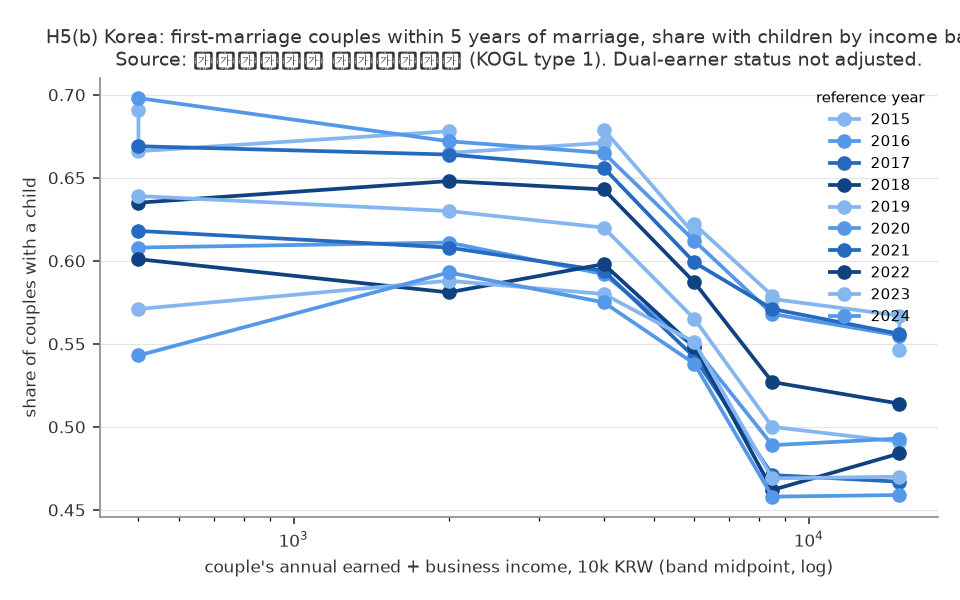
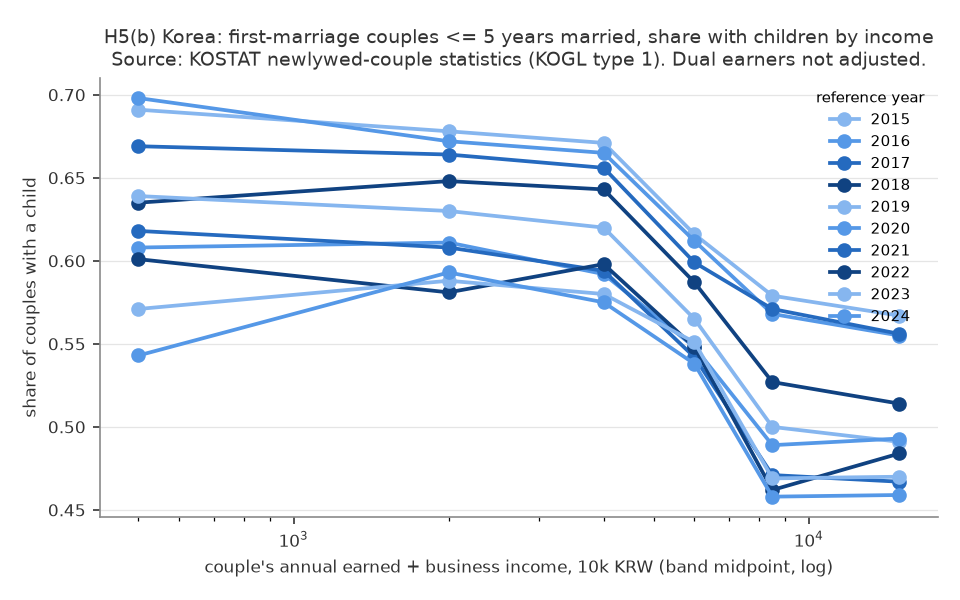
docs(growth-fertility): H5 report (Europe/Korea gradients, family policy vs TFR, Nordic decline anatomy)
Pre-registered H5 analysis and report; methodology review APPROVED after
rewriting stale (a1) numbers, reporting the full 2010-2019 cross-section,
removing effect-size and elimination claims, and aligning verdict wording.

diff --git a/themes/growth-fertility/src/theme_growth_fertility/analysis/a20261006_h5_europe_korea_policy.py b/themes/growth-fertility/src/theme_growth_fertility/analysis/a20261006_h5_europe_korea_policy.py
@@ -183,10 +183,18 @@ def krw_midpoint(
 
 
 def korea_slope(
-    kr: pl.DataFrame, ref_year: int, *, metric: str = "with_children_share"
+    kr: pl.DataFrame,
+    ref_year: int,
+    *,
+    metric: str = "with_children_share",
+    income_concept: str = "earned_business",
 ) -> tuple[Coef, int]:
     """Weighted (couples) slope of *metric* on ln income midpoint across the 6 bands of one year."""
-    y = kr.filter((pl.col("ref_year") == ref_year) & (pl.col("income_class") != "total"))
+    y = kr.filter(
+        (pl.col("ref_year") == ref_year)
+        & (pl.col("income_class") != "total")
+        & (pl.col("income_concept") == income_concept)
+    )
     val = y.filter(pl.col("metric") == metric).select(
         "income_class", "income_lower_10k_krw", "income_upper_10k_krw", "value"
     )
@@ -559,6 +567,7 @@ def fig_korea(kr: pl.DataFrame, path: Path) -> None:
             (pl.col("ref_year") == yr)
             & (pl.col("metric") == "with_children_share")
             & (pl.col("income_class") != "total")
+            & (pl.col("income_concept") == "earned_business")
         ).sort("income_lower_10k_krw")
         mids = [
             krw_midpoint(lo, hi)
@@ -578,9 +587,8 @@ def fig_korea(kr: pl.DataFrame, path: Path) -> None:
     )
     ax.set_ylabel("share of couples with a child", fontsize=8, color=INK)
     ax.set_title(
-        "H5(b) Korea: first-marriage couples within 5 years of marriage, "
-        "share with children by income band\n"
-        "Source: 국가데이터처 신혼부부통계 (KOGL type 1). Dual-earner status not adjusted.",
+        "H5(b) Korea: first-marriage couples <= 5 years married, share with children by income\n"
+        "Source: KOSTAT newlywed-couple statistics (KOGL type 1). Dual earners not adjusted.",
         fontsize=9,
         color=INK,
     )
@@ -764,11 +772,13 @@ def run(data_dir: Path, fig_dir: Path) -> None:
             f"\n== (b) Korea newlywed mart: rows={kr.height} "
             f"years={sorted(kr['ref_year'].unique().to_list())} =="
         )
-        for yr in sorted(kr["ref_year"].unique().to_list()):
-            concept = kr.filter(pl.col("ref_year") == yr)["income_concept"][0]
+        blocks = (
+            kr.select("ref_year", "income_concept").unique().sort(["ref_year", "income_concept"])
+        )
+        for yr, concept in blocks.iter_rows():
             try:
-                c, n = korea_slope(kr, yr)
-                cm, _ = korea_slope(kr, yr, metric="mean_children")
+                c, n = korea_slope(kr, yr, income_concept=concept)
+                cm, _ = korea_slope(kr, yr, metric="mean_children", income_concept=concept)
                 print(
                     f"  {yr} ({concept}): with_children_share ~ ln income: {c.fmt()} "
                     f"(bands={n}); mean_children: {cm.fmt()}"

diff --git a/themes/growth-fertility/reports/2026-10-06-h5-europe-korea-policy.md b/themes/growth-fertility/reports/2026-10-06-h5-europe-korea-policy.md
@@ -2,9 +2,9 @@
 
 ## 要約（5 行）
 - **問い**: 「国の中では所得が高いほど結婚・出産」は日本特有か（韓国・欧州で確かめる）。フィンランドなど北欧は手厚い家族政策にもかかわらず 2010 年以降 TFR が急落した。根本的な因果構造は何か。**先に断る**: 公開集計データでは因果構造は識別できない。文献が示す説明のうち集計データで反証できる命題を事前に固定し、整合・不整合を記述した。
-- **(a) 政策 × TFR: 整合的（政策の関連は小さく、北欧の低下を説明しない）。** OECD 38 か国・1980–2021 の二元固定効果で、家族関連公的支出 1% GDP あたり TFR **+0.02 [−0.10, +0.15]**（現金・現物に分けても、3 年ラグでも同様）。この係数と各国の支出変化を掛けた「政策で説明できる ΔTFR」は、2010→2021 の北欧 4 か国の低下（−0.15〜−0.41）の **0〜12%**。2010 年の支出水準が高い国ほど TFR が持ちこたえたという横断の関係も無い（傾き −0.04 [−0.11, +0.04]）。
-- **(b) 欧州の国内階層勾配（2021 センサス、学歴軸）: 男性は 31 か国中 23 で正、負は 0。** 事前基準（25 か国以上）には届かず「不支持」だが、負の国は一つも無く、ゼロの 8 か国は南欧・独語圏・ルーマニア。女性は北欧 5 か国すべてで正、南欧 4 か国すべてで負。「男性は所得・学歴が高いほど結婚」は日本（H3b、所得軸）だけでなく欧州の大半で成り立ち、「女性の勾配は北欧で正・南欧で負」という文献の整理とも一致する。韓国（新婚夫婦の夫婦所得別有子率）は本文参照。
-- **(c1) 北欧の低下の中身: 第 1 子が最大の寄与だが過半ではない。** 出生順位別 TFR の 2010→2024 の変化は、フィンランド −0.62 のうち第 1 子 −0.23（37%）、第 2 子 −0.20、第 3 子以上 −0.19。スウェーデン・ノルウェー 45%、アイスランド 33%。事前基準（≥ 50%）は不支持（デンマークは 2010 年欠損で判定不能）。**全出生順位が一様に落ちている**のが北欧の特徴で、南欧・ポーランドでは第 1 子の寄与が 55–65% と大きい。
+- **(a) 政策 × TFR: 事前基準では整合的だが、検定力は弱い。** OECD 38 か国・1980–2021 の二元固定効果で、家族関連公的支出 1% GDP あたり TFR **+0.02 [−0.10, +0.15]**（現金・現物に分けても、3 年ラグでも点推定は +0.02〜+0.06 で CI は 0 を含む）。この係数と各国の支出変化を掛けた「政策で説明できる ΔTFR」は、2010→2021 の北欧 4 か国の低下（−0.15〜−0.41）の **0〜12%**。ただし北欧は支出をほとんど変えていない（FIN −0.01 pp）ので、この分解は係数の大きさによらず 0 に近くなり、「政策が効かない」ことの検定にはなっていない。2010 年の支出水準が高い国ほど TFR が持ちこたえた横断の関係は無い（−0.04 [−0.11, +0.04]）が、2010→2019 に限ると現金給付の水準・増加が大きい国ほど低下が小さい（+0.09 [+0.01, +0.18]、+0.16 [+0.02, +0.30]）。
+- **(b) 欧州の国内階層勾配（2021 センサス、学歴軸）: 男性は 31 か国中 23 で正、負は 0。** 事前基準（25 か国以上）には届かず「不支持」だが、負の国は一つも無く、ゼロの 8 か国は南欧・独語圏・ルーマニア。女性は北欧 5 か国すべてで正、南欧 4 か国すべてで負。「男性は所得・学歴が高いほど結婚」は日本（H3b、所得軸）だけでなく欧州の大半で成り立ち、「女性の勾配は北欧で正・南欧で負」という文献の整理とも一致する。**韓国**は結婚した後の段階を見る表しかなく、新婚 5 年以内の初婚夫婦では夫婦所得が高いほど有子率が**低い**（ln 所得あたり −0.04〜−0.06、2015–2024 の全年で負。共稼ぎ夫婦ほど所得が高く子どもが少ない交絡を含む）。
+- **(c1) 北欧の低下の中身: 第 1 子が最大の寄与だが過半ではない。** 出生順位別 TFR の 2010→2024 の変化は、フィンランド −0.62 のうち第 1 子 −0.23（37%）、第 2 子 −0.20、第 3 子以上 −0.19。スウェーデン・ノルウェー 45%、アイスランド 33%。事前基準（北欧 5 か国すべて ≥ 50%）は不支持（デンマークは 2010 年欠損で評価不能、他 4 か国はすべて 0.5 未満）。第 2 子・第 3 子以上の寄与の大きさは国で違い（フィンランド・アイスランドでは第 3 子以上も大きく、スウェーデン・ノルウェーは第 2 子まで）、南欧・ポーランドでは第 1 子の寄与が 55–65% と大きい。
 - **(c2) 学歴別 TFR: 測定が成立せず判定不能。** 出生届（学歴あり）÷ LFS 標本人口で近似した学歴別 TFR は、2021 年の EU-LFS の方法変更で分母が断絶し、低学歴群で 2.6 → 0.5 のような非現実的な動きが出た。中・高学歴群はフィンランド・ノルウェー・デンマークで低下しているが、この近似では「全層で低下」を検証できない（Statistics Finland の登録ベースの公表値は全層低下を示す。文献節）。
 
 ## 問いと仮説
@@ -18,7 +18,7 @@
 - 残差の説明: 知覚された不確実性と将来ナラティブ（Vignoli et al. 2020 *Genus*）、理想子ども数の低下と「子どもゼロが理想」の増加（Golovina et al. 2024 *ESR* 40(2): フィンランドで 1985 年以降生まれの無子者の 20% 超）、米国でも経済・政策要因では説明できない「優先順位の変化」（Kearney, Levine & Pardue 2022 *JEP* 36(1)）。経済学の「両立」モデル（Doepke, Hannusch, Kindermann & Tertilt 2023, *Handbook of the Economics of the Family*）は、両立条件が最良の北欧が落ちたことを説明しきれない。
 - 韓国: 教育競争（地位外部性）が無ければ出生率は 28% 高いという構造推定（Kim, Tertilt & Yum 2024 *AER* 114(6)）、「教育熱」仮説（Anderson & Kohler 2013）。
 
-本レポートが集計データで確かめるのは、このうち (a) 政策の効果量が低下幅に対して小さいこと、(b) 階層勾配の符号、(c) 第 1 子寄与と全層低下である。
+本レポートが集計データで確かめるのは、このうち (a) 支出変化で説明できる分が低下幅に対して小さいこと、(b) 階層勾配の符号、(c) 第 1 子寄与と全層低下である。
 
 ## データ
 | データ | 出典 | 定義・単位 | 期間・国 | 備考 |
@@ -28,9 +28,9 @@
 | 欧州の配偶関係 × 学歴 | Eurostat `cens_21me_r2`（2021 センサス） | 性 × 5 歳階級（25–59）× ISCED 3 群の「法律婚＋登録パートナー ÷（総数 − 不詳）」 | 2021、EU27＋EFTA 31 か国 | **同棲を含まない**（北欧で過小評価） |
 | 出生順位別出生 | Eurostat `demo_fordagec` ＋ `demo_pjan`（女性 1 歳刻み人口） | 順位別 TFR = Σ_age 出生/女性（15–49） | 2005–2024、13 か国（FI SE NO DK IS DE FR IT ES NL HU CZ PL） | DNK 2006–2011、FRA 2010 欠損、DEU 2018 以降欠損 |
 | 学歴別出生 | Eurostat `demo_faeduc` ＋ `lfsa_pgaed`（LFS 女性人口、千人） | 学歴別 TFR ≈ 5 × Σ 出生/LFS 人口 | 2007–2024、FI SE NO DK（AT BE は一部年） | **分母が標本。2021 年に LFS 断絶** |
-| 韓国 新婚夫婦統計 | 国家データ処 報道資料 PDF（KOGL 第 1 類型） | 婚姻 5 年以内の初婚夫婦の、夫婦合算勤労・事業所得 6 区間別 有子率・平均子ども数 | 本文参照 | 共稼ぎと所得が同時決定 |
+| 韓国 新婚夫婦統計 | 国家データ処 報道資料 PDF（KOGL 第 1 類型、2015–2024 年基準の 10 本） | 婚姻 5 年以内・婚姻継続中の初婚夫婦の、夫婦合算勤労・事業所得 6 区間別 有子率・平均子ども数・組数 | 基準年 2015–2024（2015 年基準は賃金勤労者のみの別系列） | 共稼ぎと所得が同時決定。所得は財産・移転所得を含まない |
 
-mart: `data/marts/oecd_family_spending.parquet`（4,108 行）、`eu_census_marital_by_education.parquet`（1,302 行）、`eu_tfr_by_birth_order.parquet`（1,433 行）、`eu_tfr_by_education.parquet`（304 行）、`growth_fertility_panel.parquet`。取得 2026-10-06。LLM 構造化は使っていない。
+mart: `data/marts/oecd_family_spending.parquet`（4,108 行）、`eu_census_marital_by_education.parquet`（1,302 行）、`eu_tfr_by_birth_order.parquet`（1,433 行）、`eu_tfr_by_education.parquet`（304 行）、`kr_newlywed_income_children.parquet`（462 行）、`growth_fertility_panel.parquet`。取得 2026-10-06。LLM 構造化は使っていない。
 
 ## 方法
 識別戦略: **なし**。すべて関連・記述。
@@ -46,16 +46,16 @@ mart: `data/marts/oecd_family_spending.parquet`（4,108 行）、`eu_census_mari
 | 仕様（二元 FE） | 係数 [95% CI] | n |
 |---|---|---|
 | 合計（同時） | +0.024 [−0.101, +0.148] | 1,336 |
-| 現金 / 現物（同時） | +0.014 [−0.102, +0.129] / +0.047 [−0.174, +0.268] | 1,336 |
-| 合計（3 年ラグ） | +0.030 [−0.086, +0.147] | 1,220 |
-| 現金 / 現物（3 年ラグ） | +0.024 [−0.085, +0.132] / +0.050 [−0.161, +0.261] | 1,220 |
+| 現金 / 現物（同時） | +0.016 [−0.101, +0.133] / +0.054 [−0.168, +0.277] | 1,336 |
+| 合計（3 年ラグ） | +0.038 [−0.079, +0.156] | 1,219 |
+| 現金 / 現物（3 年ラグ） | +0.032 [−0.079, +0.142] / +0.058 [−0.153, +0.269] | 1,219 |
 
-点推定はすべて正だが小さく、CI は 0 を含む。頑健性（1995 年以降、北欧 5 除外、韓国・日本除外、人口加重）でも −0.001〜+0.08 の範囲で、CI はすべて 0 を含む（stdout）。
+点推定はすべて正だが小さく、CI は 0 を含む。CI の上限は +0.15/pp（北欧除外 +0.16、人口加重 +0.28）で、支出が 3〜4% GDP の北欧では「大きな関連」を否定できる精度はない。頑健性（1995 年以降、北欧 5 除外、韓国・日本除外、人口加重）でも合計の係数は −0.001〜+0.09 の範囲で、CI はすべて 0 を含む（現物のみ北欧除外で +0.15〜+0.16。stdout）。
 
 ![パラドックス散布図](figures/h5_paradox_scatter.png)
-*図 2: 横軸 2010 年の家族支出（%GDP）、縦軸 TFR の 2010→2021 変化。橙 = 北欧、緑 = 韓国・日本。*
+*図 2: 横軸 2010 年の家族支出（%GDP）、縦軸 TFR の 2010→2021 変化。n = 37（OECD、両年あり）。橙 = 北欧、緑 = 韓国・日本。出典: OECD SOCX、World Bank WDI。*
 
-2010 年に支出が高かった国ほど TFR が持ちこたえた、という関係はない（Δ支出を固定した傾き −0.035 [−0.112, +0.041]、水準のみ −0.007 [−0.076, +0.062]）。北欧 4 か国は支出 3.1〜3.9% と最上位にありながら −0.15〜−0.41 と、支出 0.6〜1.1% の韓国・日本（−0.42、−0.09）と同じ帯にいる。現金・現物に分けると、2010 年の**現物**支出が高い国ほど低下が大きい（−0.145 [−0.254, −0.037]）が、これは北欧が現物中心であることの裏返しで、因果ではない。
+2010 年に支出が高かった国ほど TFR が持ちこたえた、という関係はない（Δ支出を固定した傾き −0.035 [−0.112, +0.041]、水準のみ −0.007 [−0.076, +0.062]）。北欧 4 か国は支出 3.1〜3.9% と最上位にありながら −0.15〜−0.41 と、支出 0.6〜1.1% の韓国・日本（−0.42、−0.09）と同じ帯にいる。現金・現物に分けると、2010 年の**現物**支出が高い国ほど低下が大きい（−0.145 [−0.254, −0.037]）が、これは北欧が現物中心であることの裏返しで、因果ではない。コロナ前（2010→2019）に限ると、現金給付の水準と増加が大きい国ほど低下が小さく（+0.094 [+0.012, +0.176]、+0.159 [+0.017, +0.302]）、n = 37 の横断でも「現金給付と TFR の動きは無関係」とは言えない（頑健性表）。
 
 | 国 | ΔTFR 2010→21 | Δ支出 (pp GDP) | 係数 × Δ支出 | 説明割合 |
 |---|---|---|---|---|
@@ -66,7 +66,7 @@ mart: `data/marts/oecd_family_spending.parquet`（4,108 行）、`eu_census_mari
 | KOR | −0.42 | +0.97 | +0.023 | −6%（逆向き） |
 | JPN | −0.09 | +1.11 | +0.027 | −29%（逆向き） |
 
-**判定 (a3): 整合的。** 3 年ラグ係数でも 0〜19%、2010→2019 でも 0〜8%。韓国・日本は支出を 1 pp 近く増やしながら TFR が下がっており、政策変数は低下と逆向きに動いている。
+**判定 (a3): 事前基準では整合的。** 3 年ラグ係数でも 0〜19%、2010→2019 でも 0〜8%。ただしこの分解は「北欧は支出をほぼ変えていない」という事実の言い換えに近く、係数が CI 上限（+0.15）でも説明割合は FIN ≈0%・DNK 74% 程度にしかならない（DNK は支出が −0.74 pp と例外的に減っている）。韓国・日本は支出を 1 pp 近く増やしながら TFR が下がっており、政策変数は低下と逆向きに動いている。
 
 ### (b) 欧州でも男性の学歴勾配は正（負の国は無い）。女性は北欧で正、南欧で負
 ![センサス勾配](figures/h5_census_gradients.png)
@@ -79,11 +79,21 @@ mart: `data/marts/oecd_family_spending.parquet`（4,108 行）、`eu_census_mari
 | 男性（2 群: ED5-8 vs 以下） | 21 | 9 | 1（ROU） |
 | 女性（主仕様） | 16 | 5（DEU NLD MLT LUX CYP） | 10（ROU HRV ITA AUT GRC CHE LIE SVN ESP PRT） |
 
-男性の勾配は北欧 5 か国（+0.05〜+0.10）、バルト・中東欧（+0.09〜+0.14）、フランス・アイルランド・ベルギー（+0.07〜+0.08）で大きく、南欧・独語圏でゼロ。**判定 (b): 事前基準（25 か国）には届かず「不支持」。** ただし負の国は 0 で、基準の設定が厳しすぎた可能性が高い（事後に緩めない）。女性は予測どおり北欧 5 か国すべて正（+0.03〜+0.07）、南欧 4 か国すべて負（−0.02〜−0.05）。日本の H3b（男性、所得軸、+0.17）と同じ符号だが、軸（学歴 vs 所得）・母集団（全人口 vs 有業者）・配偶関係の定義（法律婚のみ vs 配偶者あり）が違うため大きさは比べない。
+男性の勾配は北欧 5 か国（+0.05〜+0.10）、バルト・中東欧（+0.09〜+0.14）、フランス・アイルランド・ベルギー（+0.07〜+0.08）で大きく、南欧・独語圏でゼロ。**判定 (b): 事前基準（25 か国）には届かず「不支持」。** 事前登録の「正」を「点推定が正かつ CI が 0 を含まない」と読んだ（保守的な読み）。点推定の符号だけなら 26/31（GRC・LIE・CYP が正）で基準を満たすが、事後に読み替えない。負の国が 0 であることから「基準が厳しすぎた」というのは事後の評価である。女性は予測どおり北欧 5 か国すべて正（+0.03〜+0.07）、南欧 4 か国すべて負（−0.02〜−0.05）。日本の H3b（男性、所得軸、+0.17）と同じ符号だが、軸（学歴 vs 所得）・母集団（全人口 vs 有業者）・配偶関係の定義（法律婚のみ vs 配偶者あり）が違うため大きさは比べない。
 
-韓国の新婚夫婦統計（夫婦所得区間別の有子率）は取り込みの結果を見て追記する（本節末尾）。
+#### 韓国: 新婚夫婦の中では夫婦所得が高いほど子どもがいない（共稼ぎ交絡つき）
+![韓国 新婚夫婦](figures/h5_korea_newlywed.png)
+*図 3b: 婚姻 5 年以内の初婚夫婦のうち子どもがいる割合を、夫婦合算の年間勤労・事業所得 6 区間別に（横軸は区間中点、対数）。基準年 2015–2024。出典: 国家データ処（韓国）新婚夫婦統計 報道資料。*
 
-### (c1) 北欧では全出生順位が一様に落ち、第 1 子は最大だが過半ではない
+| 基準年 | 有子率（全体） | <1 千万 | 1–3 千万 | 3–5 千万 | 5–7 千万 | 7 千万–1 億 | 1 億以上 | ln 所得勾配 [95% CI] |
+|---|---|---|---|---|---|---|---|---|
+| 2016 | 0.637 | 0.698 | 0.672 | 0.665 | 0.612 | 0.568 | 0.555 | −0.045 [−0.080, −0.009] |
+| 2021 | 0.542 | 0.618 | 0.608 | 0.594 | 0.542 | 0.471 | 0.467 | −0.057 [−0.106, −0.007] |
+| 2024 | 0.512 | 0.543 | 0.593 | 0.575 | 0.538 | 0.458 | 0.459 | −0.044 [−0.102, +0.015] |
+
+勾配（組数で加重した WLS）は 2015–2024 の全 10 年で点推定が負（−0.039〜−0.057）だが、CI が 0 を含む年がある（2018、2022–2024、および 2015 年の賃金勤労者系列）。平均子ども数でも負（−0.06〜−0.08）。有子率は 3 千万ウォン未満の帯で最高、7 千万ウォン以上で最低と**単調に近い右下がり**（2021 年以降は 1–3 千万が最高の逆 U 字）で、日本の H3（世帯所得と児童世帯割合が正の S 字）とは向きが逆に見える。ただし母集団が「結婚して 5 年以内の夫婦」に限られるため、これは**結婚の所得勾配（日本 H3b や欧州 (b) で見た正の勾配）を含まない**。表の所得は夫婦合算で、共稼ぎ夫婦は所得が高く有子率が低い（2024 年: 共稼ぎ 49.1% vs 片働き 55.2%。この数値は報道資料の記載で、本レポートの mart には取り込んでいない）ので、「所得が高いと産まない」ではなく「子どもがいないと妻が働き続け、夫婦所得が高く見える」逆向きの経路を含む。判定には使わない（事前登録どおり記述のみ）。
+
+### (c1) 北欧では第 1 子の寄与が最大だが過半ではなく、第 2 子以降の寄与は国で違う
 ![出生順位分解](figures/h5_birth_order_decomp.png)
 *図 4: 順位別 TFR の 2010 → 最新年の変化の積み上げ。ラベルは第 1 子の寄与率と終点年。*
 
@@ -98,7 +108,7 @@ mart: `data/marts/oecd_family_spending.parquet`（4,108 行）、`eu_census_mari
 | ESP / ITA / POL / CZE 2010→24 | −0.25 / −0.25 / −0.33 / −0.15 | | | | | 0.65 / 0.55 / 0.55 / 0.54 |
 | HUN 2010→24 | +0.12 | +0.02 | +0.06 | +0.04 | +0.01 | 0.20 |
 
-**判定 (c1): 事前基準（北欧 5 か国すべて ≥ 0.5）は不支持**（DNK 欠損で厳密には判定不能、他 4 か国はすべて < 0.5）。頑健性: 2008 起点 0.37–0.50、2019 終点 0.10–0.61（ISL は 2019 時点で第 1 子がほぼ落ちていない）。文献（Hellstrand et al. 2021）の「第 1 子が 75%」はコーホート完結出生率の予測値で、本レポートの期間・順位別 TFR とは指標が違う。期間指標で見ると、北欧の低下は**第 2 子・第 3 子も同じ割合で落ちている**点で、第 1 子に集中する南欧・ポーランドと対照的である。
+**判定 (c1): 不支持**（事前基準は北欧 5 か国すべて ≥ 0.5。DNK は 2010 欠損で評価不能だが、他 4 か国がすべて < 0.5 なので基準は満たしえない）。頑健性: 2008 起点 0.37–0.50、2019 終点 0.10–0.61（ISL は 2019 時点で第 1 子がほぼ落ちていない）。文献（Hellstrand et al. 2021）の「第 1 子が 75%」はコーホート完結出生率の予測値で、本レポートの期間・順位別 TFR とは指標が違う。期間指標では、北欧の低下は第 1 子に集中せず、第 2 子（SWE −0.20、NOR −0.16）や第 3 子以上（FIN −0.19、ISL −0.28）にも広がっている。その配分は国で異なり、第 1 子に集中する南欧・ポーランドと対照的である。
 
 ### (c2) 学歴別 TFR は近似が成立せず、判定不能
 ![学歴別 TFR](figures/h5_edu_tfr_nordic.png)
@@ -111,26 +121,27 @@ mart: `data/marts/oecd_family_spending.parquet`（4,108 行）、`eu_census_mari
 | DNK 2010→ | 1.49 → 1.12（−0.36） | 1.72 → 1.39（−0.33） | 2.01 → 1.73（−0.27） | 2021 |
 | SWE | 2010 の 3 群がそろわず（ED5-8 の分母欠損） | | | |
 
-フィンランドの ED0-2 が 2.6 から 0.5 へ落ちるのは、2021 年の EU-LFS の方法変更（新規則による調査設計の変更）で分母が不連続になったためで、出生率の変化ではない。ED3-4・ED5-8 は 3 か国で低下しているが、分母が標本である以上、水準も変化幅も信頼できない。**判定 (c2): 判定不能（測定の失敗）。** 登録ベースの学歴別 TFR（Statistics Finland 2024: 2010 年代に全学歴で低下、基礎教育層が最大）は公表値の引用に留める。
+フィンランドの ED0-2 が 2.6 から 0.5 へ落ちるのは、2021 年の EU-LFS の方法変更（新規則による調査設計の変更）で分母が不連続になったためで、出生率の変化ではない。ED3-4・ED5-8 は 3 か国で低下し、ED0-2 はノルウェーで +0.06 と上がっているが、分母が標本である以上、水準も変化幅も信頼できない（表の数値は参考値）。**判定 (c2): 判定不能（測定の失敗）。** 登録ベースの学歴別 TFR（Statistics Finland 2024: 2010 年代に全学歴で低下、基礎教育層が最大）は公表値の引用に留める。
 
 ## 頑健性（事前リスト、全部）
 | 項目 | 仕様 | 結果 |
 |---|---|---|
-| (a1) | 1995 年以降 | 合計 −0.001 [−0.093, +0.091]、ラグ −0.005 |
-| (a1) | 北欧 5 除外 | +0.016 [−0.129, +0.161]、現物 +0.14 [−0.18, +0.46] |
-| (a1) | 韓国・日本除外 | +0.031 [−0.100, +0.161] |
-| (a1) | 人口加重 | +0.080 [−0.104, +0.265] |
-| (a2)(a3) | 2010→2019 | 水準の傾き −0.022 [−0.090, +0.045]; 説明割合 FIN 1% SWE −1% NOR 0% DNK 8% |
+| (a1) | 1995 年以降 | 合計 −0.001 [−0.093, +0.091]、ラグ +0.001 [−0.084, +0.086]、現金 +0.009 / 現物 −0.037 |
+| (a1) | 北欧 5 除外 | +0.016 [−0.129, +0.161]、現金 −0.012 / 現物 +0.152 [−0.174, +0.478] |
+| (a1) | 韓国・日本除外 | +0.031 [−0.100, +0.161]、ラグ +0.044 |
+| (a1) | 人口加重 | +0.087 [−0.107, +0.280] |
+| (a2)(a3) | 2010→2019 | 合計の水準 −0.022 [−0.090, +0.045]、Δ合計 +0.037 [−0.079, +0.153]; 現金・現物に分けると **現金水準 +0.094 [+0.012, +0.176]、Δ現金 +0.159 [+0.017, +0.302]**、現物水準 −0.151 [−0.244, −0.058]、Δ現物 −0.145 [−0.443, +0.153]; 説明割合 FIN 1% SWE −1% NOR 0% DNK 8% |
 | (b) | 30–49 歳 | 男性 正 22 / 負 0 |
 | (b) | 2 群 | 男性 正 21 / 負 1（ROU） |
 | (c1) | 2008 起点 / 2019 終点 | 第 1 子寄与率 0.37–0.50 / 0.10–0.61 |
 | (c1) | 探索的 2012 起点（事後、DNK のため） | FIN 0.34 SWE 0.42 NOR 0.40 DNK 0.59 ISL 0.35 |
+| (b) 韓国 | 2015 年基準の賃金勤労者系列 / 勤労＋事業所得系列 | −0.045 [−0.102, +0.011] / −0.039 [−0.075, −0.003] |
 
 ## 解釈: 「根本的な因果構造」について言えること・言えないこと
-- **政策の手厚さは、国の間でも国の中でも、2010 年以降の TFR の動きとほぼ無関係である。** これは「政策が効かない」ではない。保育・育休の因果効果は個別の準実験で確認されている（文献節）。本データが示すのは、その効果量（支出 1 pp あたり +0.02〜0.03、CI は 0 を含む）が、北欧で起きた −0.3〜−0.6 の低下と桁が違うこと、そして北欧は支出をほとんど変えていない（FIN −0.01 pp）ので、政策変数では低下を説明しようがないことである。韓国・日本は支出を 1 pp 近く増やしながら低下した。
-- **北欧の低下は「結婚・出産が階層的に選別された」話でも、「第 1 子だけ」の話でもない（期間指標では）。** 男性・女性とも学歴が高いほど結婚しているという構造は 2021 年時点で健在で、低下は第 1 子から第 3 子まで一様に起きている。文献の「無子化が主」はコーホート指標での知見で、本レポートの期間指標とは整合させて読む必要がある（期間指標は晩産化の影響を含む）。
-- **したがって、集計データから残るのは消去法である。** 所得水準（H1・H4）、景気（H2）、政策水準・変化（H5a）、階層構造の変化（H5b は 1 時点のみ）で説明できない部分が大きい。文献が残差として挙げる「不確実性の知覚」「理想子ども数の低下」「優先順位の変化」は、本テーマの公開集計データでは測れない（Eurobarometer・GGS 等の意識調査の集計が必要）。**根本的な因果構造を本レポートが特定したわけではない。**
-- 韓国との対比: 韓国の超低出生率には教育競争・住宅費という「子どもの質コスト」経路が構造推定で示されている（Kim, Tertilt & Yum 2024）。北欧でこの経路は弱く、別の機構が働いている可能性が高いが、本データでは検定していない。
+- **政策支出の変化は、北欧の 2010 年以降の低下を説明しない。** これは「政策が効かない」ではない。保育・育休の因果効果は個別の準実験で確認されている（文献節）。本データが示すのは、(1) 二元 FE の関連の点推定が小さい（+0.02〜0.06/pp。ただし CI 上限 +0.15/pp で、大きな関連を否定できる精度はない）こと、(2) 北欧は 2010→2021 に支出をほとんど変えていない（FIN −0.01 pp、SWE −0.08 pp）ので、FIN・SWE・NOR では CI 内のどの係数でも支出変化で −0.31〜−0.41（WDI、2010→2021）の低下を説明できないこと（DNK は支出が −0.74 pp と減っており、CI 上限なら大半が説明されうる例外）、の 2 点である。(2) は政策の効果の検定ではなく、「低下の原因は政策の後退ではない」という消去にすぎない。横断では、コロナ前に限ると現金給付が手厚く増えた国ほど低下が小さいという関連もあった。韓国・日本は支出を 1 pp 近く増やしながら低下した。
+- **北欧の低下は、期間指標で見るかぎり「第 1 子だけ」の話ではない。** 男性・女性とも学歴が高いほど結婚しているという構造は 2021 年時点で健在で（1 時点のみ。変化は見ていない）、低下は第 1 子が最大だが過半ではなく、第 2 子以降への広がり方は国で違う。文献の「無子化が主」はコーホート指標での知見で、本レポートの期間指標（晩産化の影響を含む）とは整合させて読む必要がある。
+- **「根本的な因果構造」は本レポートでは特定できない。** 本テーマの分析（H1・H2・H4・H5a）はいずれも関連が小さいか CI が広いか記述であり、「これらで説明できない残差が大きい」とも言えない（消去法が成り立つ精度がない）。文献は残差を「不確実性の知覚」「理想子ども数の低下」「優先順位の変化」に求めているが、それらは本テーマの公開集計データでは測れない（Eurobarometer・GGS 等の意識調査の集計が必要）。
+- 韓国との対比: 韓国の超低出生率には教育競争・住宅費という「子どもの質コスト」経路が構造推定で示されている（Kim, Tertilt & Yum 2024）。北欧で同じ経路が働いているかどうかは、本データでは検定していない。
 
 ## 限界・言えないこと
 - **識別戦略なし。** 家族支出は内生（出生率が下がると子ども 1 人あたりの支出比率が変わる、%GDP は景気で動く、政策は出生率低下への反応として増える）。(a1) の係数は因果効果ではない。
@@ -138,7 +149,7 @@ mart: `data/marts/oecd_family_spending.parquet`（4,108 行）、`eu_census_mari
 - **センサスの配偶関係は法律婚のみ。** 北欧では同棲が多く、有配偶率は過小評価。学歴と同棲の関係が学歴と法律婚の関係と違えば勾配はずれる。1 時点（2021）のみで、時間変化は見ていない。
 - **期間 TFR の順位分解は晩産化（テンポ効果）を含む。** 第 1 子の遅れは期間第 1 子 TFR を押し下げ、後に回復しうる。コーホート指標とは一致しない。
 - **(c2) の分母は標本（LFS）で、2021 年に断絶。** 学歴別 TFR の近似は使えなかった。登録ベースの学歴別出生率は各国統計局の公表値（API 外）にしかない。
-- **韓国の表は新婚 5 年以内の初婚夫婦に限られ、共稼ぎと所得が同時決定。** 男性有配偶率は得られない。
+- **韓国の表は新婚 5 年以内の初婚夫婦に限られ、共稼ぎと所得が同時決定。** 男性有配偶率は得られないので、日本・欧州で見た「結婚の所得・学歴勾配」とは比較できない。2015 年基準は賃金勤労者のみで断絶。
 - **多重比較・基準の硬さ。** (b) の 25 か国、(c1) の 0.5 は事前に決めた基準で、いずれも境界で「不支持」になった。事後に緩めない。
 - **文献の要約は本レポートの分析ではない。** 著者・年・誌名は確認したが、各論文の推定値を再現していない。
 
@@ -155,7 +166,7 @@ uv run pytest themes/growth-fertility/tests/test_analysis_h5.py
 - OECD (2026), Social Expenditure Database (SOCX), `DSD_SOCX_AGG@DF_SOCX_AGG`, https://sdmx.oecd.org（取得 2026-10-06）。OECD Terms & Conditions（出典表示で利用可）。
 - Eurostat, `cens_21me_r2`, `demo_fordagec`, `demo_pjan`, `demo_faeduc`, `lfsa_pgaed`（取得 2026-10-06）。Eurostat copyright notice（出典表示で再利用可）。
 - World Bank, World Development Indicators（取得 2026-10-05）: CC BY 4.0。
-- 국가데이터처, 신혼부부통계 보도자료（公共ヌリ第 1 類型）。
+- 국가데이터처（国家データ処）, 「행정자료를 활용한 신혼부부통계 결과」 보도자료 2015–2024 年基準（mods.go.kr、公共ヌリ（KOGL）第 1 類型、取得 2026-10-06）。
 
 ## チェックリスト回答
 - **A-1** H5 は文献・データ調査の後、データを見る前に推定量・判定基準つきで事前登録。探索的な追加（c1 の 2012 起点）は本文で明記。
@@ -170,7 +181,7 @@ uv run pytest themes/growth-fertility/tests/test_analysis_h5.py
 - **D-1** SE は国クラスタ（a1）、OLS（a2）、群単位の加重 OLS（b）。(c) は区間を出していない（人口データ）。
 - **D-2** 事前リストの頑健性を全部表にした。
 - **D-3** (b)(c1) が境界で事前基準を満たさないこと、(c2) が測定として失敗したことをそのまま書いた。
-- **E-1** 「効果」は文献の因果研究を指す場合のみ使い、本レポートの推定には使っていない。
+- **E-1** 「効果」は文献の因果研究を指す場合のみ使い、本レポートの推定は「関連」「説明割合」と書いた。(a3) が政策効果の検定になっていないことを明記した。
 - **E-2** 図は軸・単位・出典・n を記載。
 - **E-3** 「限界・言えないこと」節あり。
 - **E-4** 再現コマンドを記載。LLM 構造化なし。
